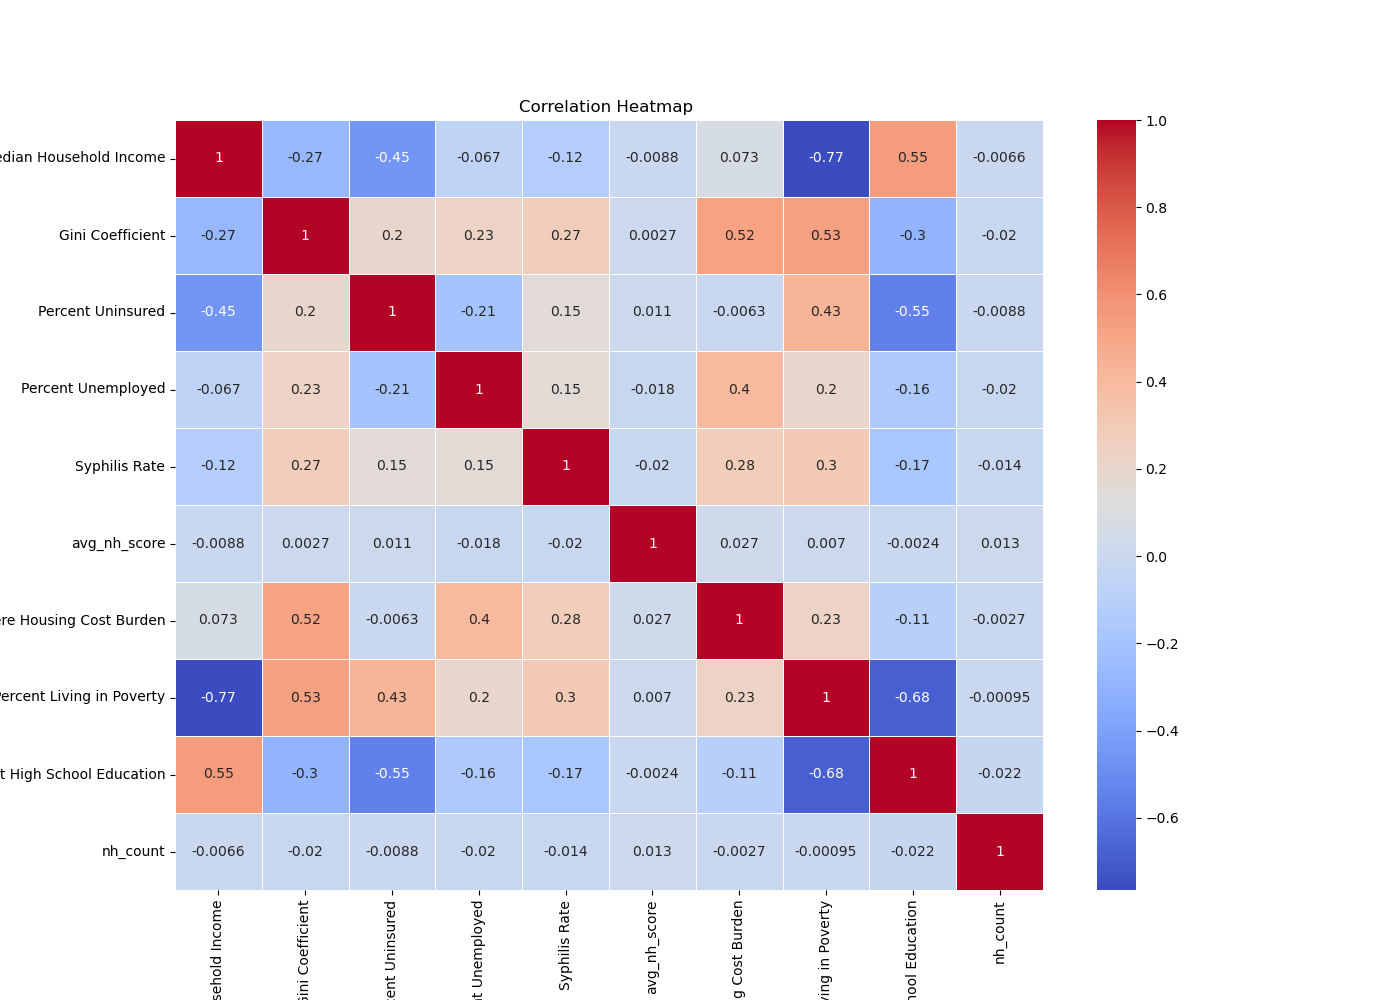
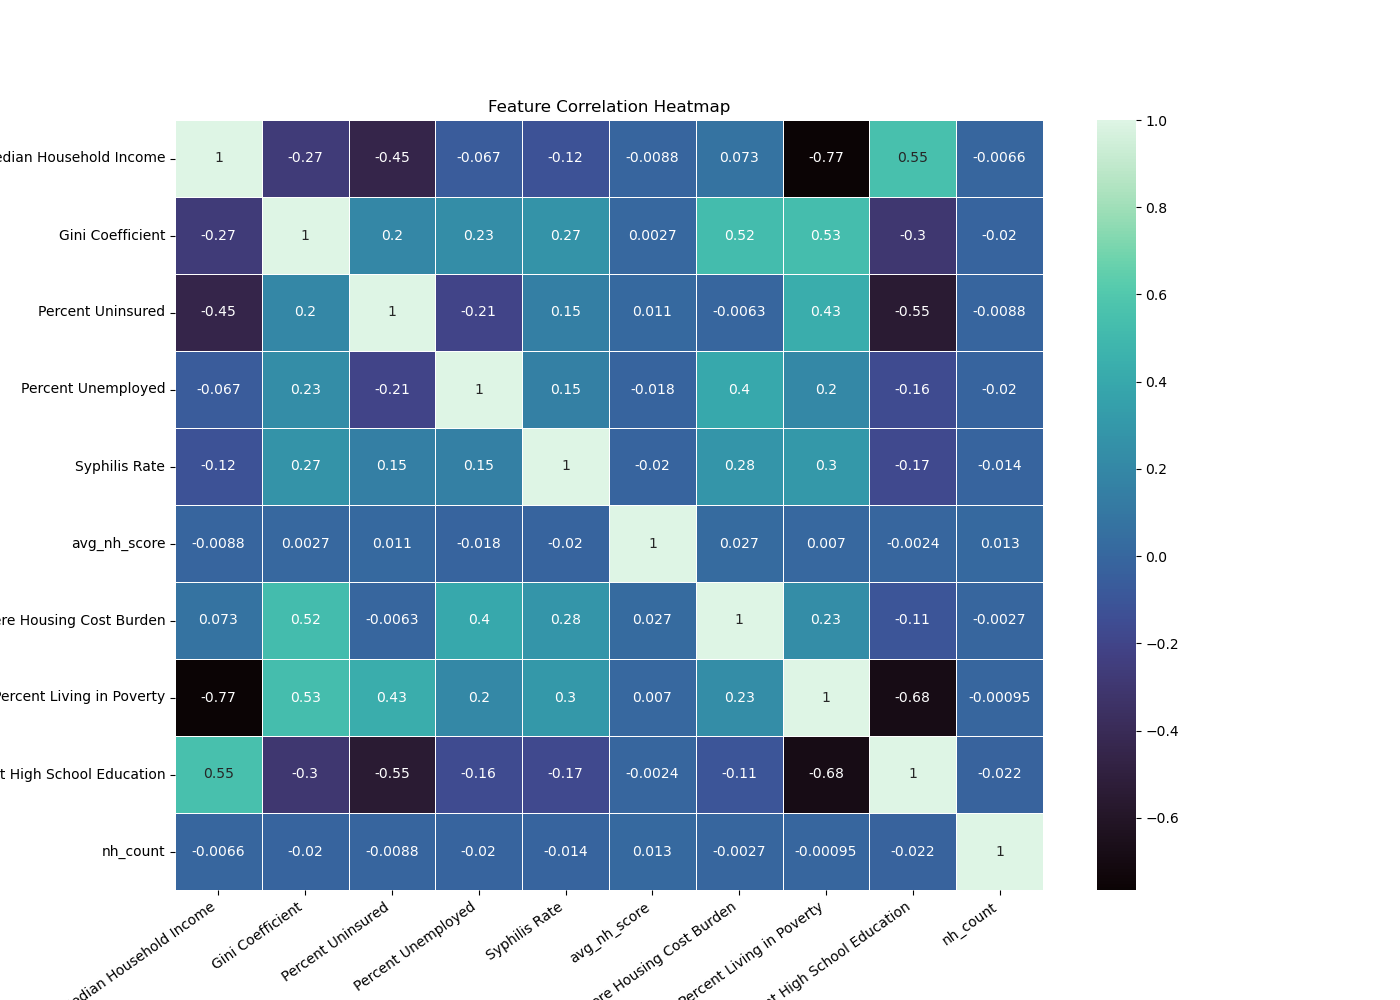
update plots

diff --git a/src/scatterG3.py b/src/scatterG3.py
@@ -1,26 +1,25 @@
 from imports import sns, plt, pd
 
-
 merged = pd.read_csv('data/group3data.csv')
-
 value_vars_list = ['Median Household Income', 'Gini Coefficient', 'Percent Uninsured',
                    'Percent Unemployed', 'Syphilis Rate', 'avg_nh_score',
                    'Percent Living with Severe Housing Cost Burden',
                    'Percent Living in Poverty', 'Percent High School Education',
                    'nh_count']
-
 data = merged.melt(id_vars=['Rates of Persons Living with HIV, 2020'], value_vars=value_vars_list)
 
 
-g = sns.FacetGrid(data, col="variable", col_wrap=3, sharex=False, sharey=False, height=4)
+g = sns.FacetGrid(data, col="variable", col_wrap=4, sharex=False, sharey=False, height=4)
 g = (g.map(plt.scatter, "value", "Rates of Persons Living with HIV, 2020", edgecolor="w")
-      .set_titles("{col_name} vs. HIV Rates")
-      .set_axis_labels("Value", "Rates of Persons Living with HIV, 2020"))
+      .set_titles("{col_name} vs. HIV Rates"))
 
-plt.subplots_adjust(top=0.9)
-g.fig.suptitle('Scatter Plots of Predictors vs. Rates of Persons Living with HIV, 2020')
+for ax, title in zip(g.axes.flat, value_vars_list):
+    ax.set_xlabel(title)
 
+g.tight_layout()
+plt.subplots_adjust(top=0.85, hspace=0.4)  
+
+g.fig.suptitle('Scatter Plots of Features vs. Rates of Persons Living with HIV, 2020')
 plt.savefig('figs/FeatureScatter.png')
 plt.show()
-
 # Group 3 - MS & TM

diff --git a/src/heatmapG3.py b/src/heatmapG3.py
@@ -1,5 +1,5 @@
 from imports import sns, sm, pd, np, plt
-
+'''
 merged = pd.read_csv('data/group3data.csv')
 value_vars_list = ['Median Household Income', 'Gini Coefficient', 'Percent Uninsured',
                    'Percent Unemployed', 'Syphilis Rate', 'avg_nh_score',
@@ -12,8 +12,24 @@ corr_matrix = merged.corr()
 plt.figure(figsize=(14,10))
 sns.heatmap(corr_matrix, annot=True, cmap='coolwarm', linewidths=0.5)
 plt.title('Correlation Heatmap ')
+
+plt.show()
+'''
+merged = pd.read_csv('data/group3data.csv')
+value_vars_list = ['Median Household Income', 'Gini Coefficient', 'Percent Uninsured',
+                   'Percent Unemployed', 'Syphilis Rate', 'avg_nh_score',
+                   'Percent Living with Severe Housing Cost Burden',
+                   'Percent Living in Poverty', 'Percent High School Education',
+                   'nh_count']
+merged = merged[value_vars_list]
+
+corr_matrix = merged.corr()
+
+plt.figure(figsize=(14,10))
+sns.heatmap(corr_matrix, annot=True, cmap='mako', linewidths=0.5)
+plt.xticks(rotation=35, ha='right')
+plt.title('Feature Correlation Heatmap')
 plt.savefig('figs/heatmap.png')
 plt.show()
-
 
 # Group 3 - MS & TM

diff --git a/README.md b/README.md
@@ -11,7 +11,9 @@ Prof. Brianne Olivieri-Mui, Dept of Health Sciences
 
 ### Story 
 
-HIV and aids is a significant public health issue that has resulted in the deaths of millions of people. Medicaid is the only public insurance that pays for nursing home care. A significant portion of people living with HIV (PLWH) have Medicaid, many are also dually eligible for Medicare. Having Medicaid or Medicare means access to Part D prescription drug coverage which is mandated to cover HIV medications (they are one of the 6 protected classes of drugs). Nursing homes however do not keep these drugs on formulary because they are relatively rare and is potentially contributing to issues with antiretroviral therapy (ART) adherence in this setting. There exists publicly available data provided by Medicare.gov that ranks nursing homes on a star rating from 1 to 5, with 1 indicating the worst care and 5 indicating the best care. For this reason we are looking for a relationship between the ratings of an areas nursing homes and the prevelance of HIV in that area.
+HIV and aids is a significant public health issue that has resulted in the deaths of millions of people. Medicaid is the only public insurance that pays for nursing home care. A significant portion of people living with HIV (PLWH) have Medicaid, many are also dually eligible for Medicare. Having Medicaid or Medicare means access to Part D prescription drug coverage which is mandated to cover HIV medications (they are one of the 6 protected classes of drugs). Nursing homes however do not keep these drugs on formulary because they are relatively rare and is potentially contributing to issues with antiretroviral therapy (ART) adherence in this setting. There exists publicly available data provided by Medicare.gov that ranks nursing homes on a star rating from 1 to 5, with 1 indicating the worst care and 5 indicating the best care. This was used in Group 2s work on visualizing nursing home score and HIV prevalence.
+
+For this reason we are looking for a relationship between the ratings of an areas nursing homes and the prevelance of HIV in that area.
 
 Based on this hypothesis we are looking at what if any relationship there is between a nursing home ratings and the prevelance of HIV in an area. We have a hypothesis that the higher the ratings of nursing homes in an area the lower the prevalence of HIV. If this holds true, this would support the allocation of public funds to combat HIV by raising the quality of nursing home care.
 
@@ -43,6 +45,19 @@ This histogram shows the distributions of the features:
 
 The feature of interest average nursing home score looks relatively normally distributed.
 A good sign.
+
+
+
+
+
+
+
+
+
+
+
+
+
 
 ### Model
 
@@ -98,6 +113,11 @@ Command:
 make m55
 ```
 The results are in the results.md file. 
+
+#### Findings
+
+#### Future Work
+
 
 
 ### Referencing
